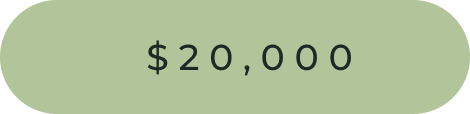
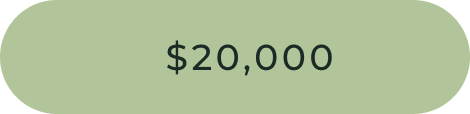
added other cities and instant quote

Changed region(s): [[0.2979, 0.3421, 0.5064, 0.6579], [0.5362, 0.3684, 0.7447, 0.6316]]

diff --git a/templates/landing.html b/templates/landing.html
@@ -59,12 +59,12 @@
         <div class="row">
 
             <div class="BA-select">
-                <a href="values"><img class="option" src="{% static 'images/BayArea.png' %}" alt=""></a>
+                <a href="values"><img class="option" src="{% static 'images/bayArea.png' %}" alt=""></a>
                 
             </div>
 
             <div class="BA-select">
-                <a href="values"><img class="option" src="{% static 'images/BayArea.png' %}" alt=""></a>
+                <a href="values"><img class="option" src="{% static 'images/newYork.png' %}" alt=""></a>
                 
             </div>
 
@@ -73,13 +73,13 @@
         <div class="row">
 
             <div class="BA-select">
-                <a href="values"><img class="option" src="{% static 'images/BayArea.png' %}" alt=""></a>
+                <a href="values"><img class="option" src="{% static 'images/seattle.png' %}" alt=""></a>
                 
 
             </div>
 
             <div class="BA-select">
-                <a href="values"><img class="option" src="{% static 'images/BayArea.png' %}" alt=""></a>
+                <a href="values"><img class="option" src="{% static 'images/boston.png' %}" alt=""></a>
 
                 
             </div>

diff --git a/templates/confirm.html b/templates/confirm.html
@@ -50,7 +50,18 @@
         <div class="wrapper">
             <div class="purchase">
             
-                Purchase ${{ price }} insurance <br> in for the year of 2021?
+                Purchase ${{ price }} insurance <br> in the SF Bay Area the year of 2021?
+
+            </div>
+        </div>
+    </div>
+    <br>
+    <br>
+    <div class="header-title">
+        <div class="wrapper">
+            <div class="purchase">
+            
+                Your quote is ${{ quote }}
 
             </div>
         </div>
@@ -61,14 +72,14 @@
             <div class="row">
 
                 <div class="BA-select">
-                    <a href="values"><img class="option" src="{% static 'images/cancel.svg' %}" alt=""></a>
+                    <a href="values"><img class="option" src="{% static 'images/cancel.png' %}" alt=""></a>
 
                     
                     
                 </div>
 
                 <div class="BA-select">
-                    <a href="#"><img class="option" src="{% static 'images/confirm.svg' %}" alt=""></a>
+                    <a href="#"><img class="option" src="{% static 'images/confirm.png' %}" alt=""></a>
                     
                 </div>
 

diff --git a/static/style.css b/static/style.css
@@ -6,8 +6,8 @@
 body{
     
     background: #D4C6B2;
-    font-family: "Roboto",sans-serif;
-    font-style: normal;
+    /* font-family: "Roboto",sans-serif;
+    font-style: normal; */
 }
 
 /* Navigation */
@@ -79,7 +79,7 @@ nav ul {
     font-size: 64px;
     line-height: 75px;
     text-align: center;
-    letter-spacing: 0.088em;
+    letter-spacing: 0.058em;
 
     color: #456E3F;
 }
@@ -157,11 +157,11 @@ nav ul {
     font-family: "Roboto",sans-serif;
     font-style: normal;
     font-weight: 500;
-    font-size: 50px;
-    line-height: 64px;
+    font-size: 55px;
+    line-height: 67px;
     text-align: center;
-    letter-spacing: 0.088em;
-
+    letter-spacing: 0.048em;
+    
     color: #456E3F;
 
 

diff --git a/URLManagement/views.py b/URLManagement/views.py
@@ -16,7 +16,8 @@ def about(request):
 
 def confirm(request):
     price=request.POST.get("price",False)
+    quote = (int(price.replace(",","")))//50
     if price==False:
         return render(request,'landing.html')
     else:
-        return render(request, 'confirm.html',{"price":price})
+        return render(request, 'confirm.html',{"price":price, "quote":quote})
